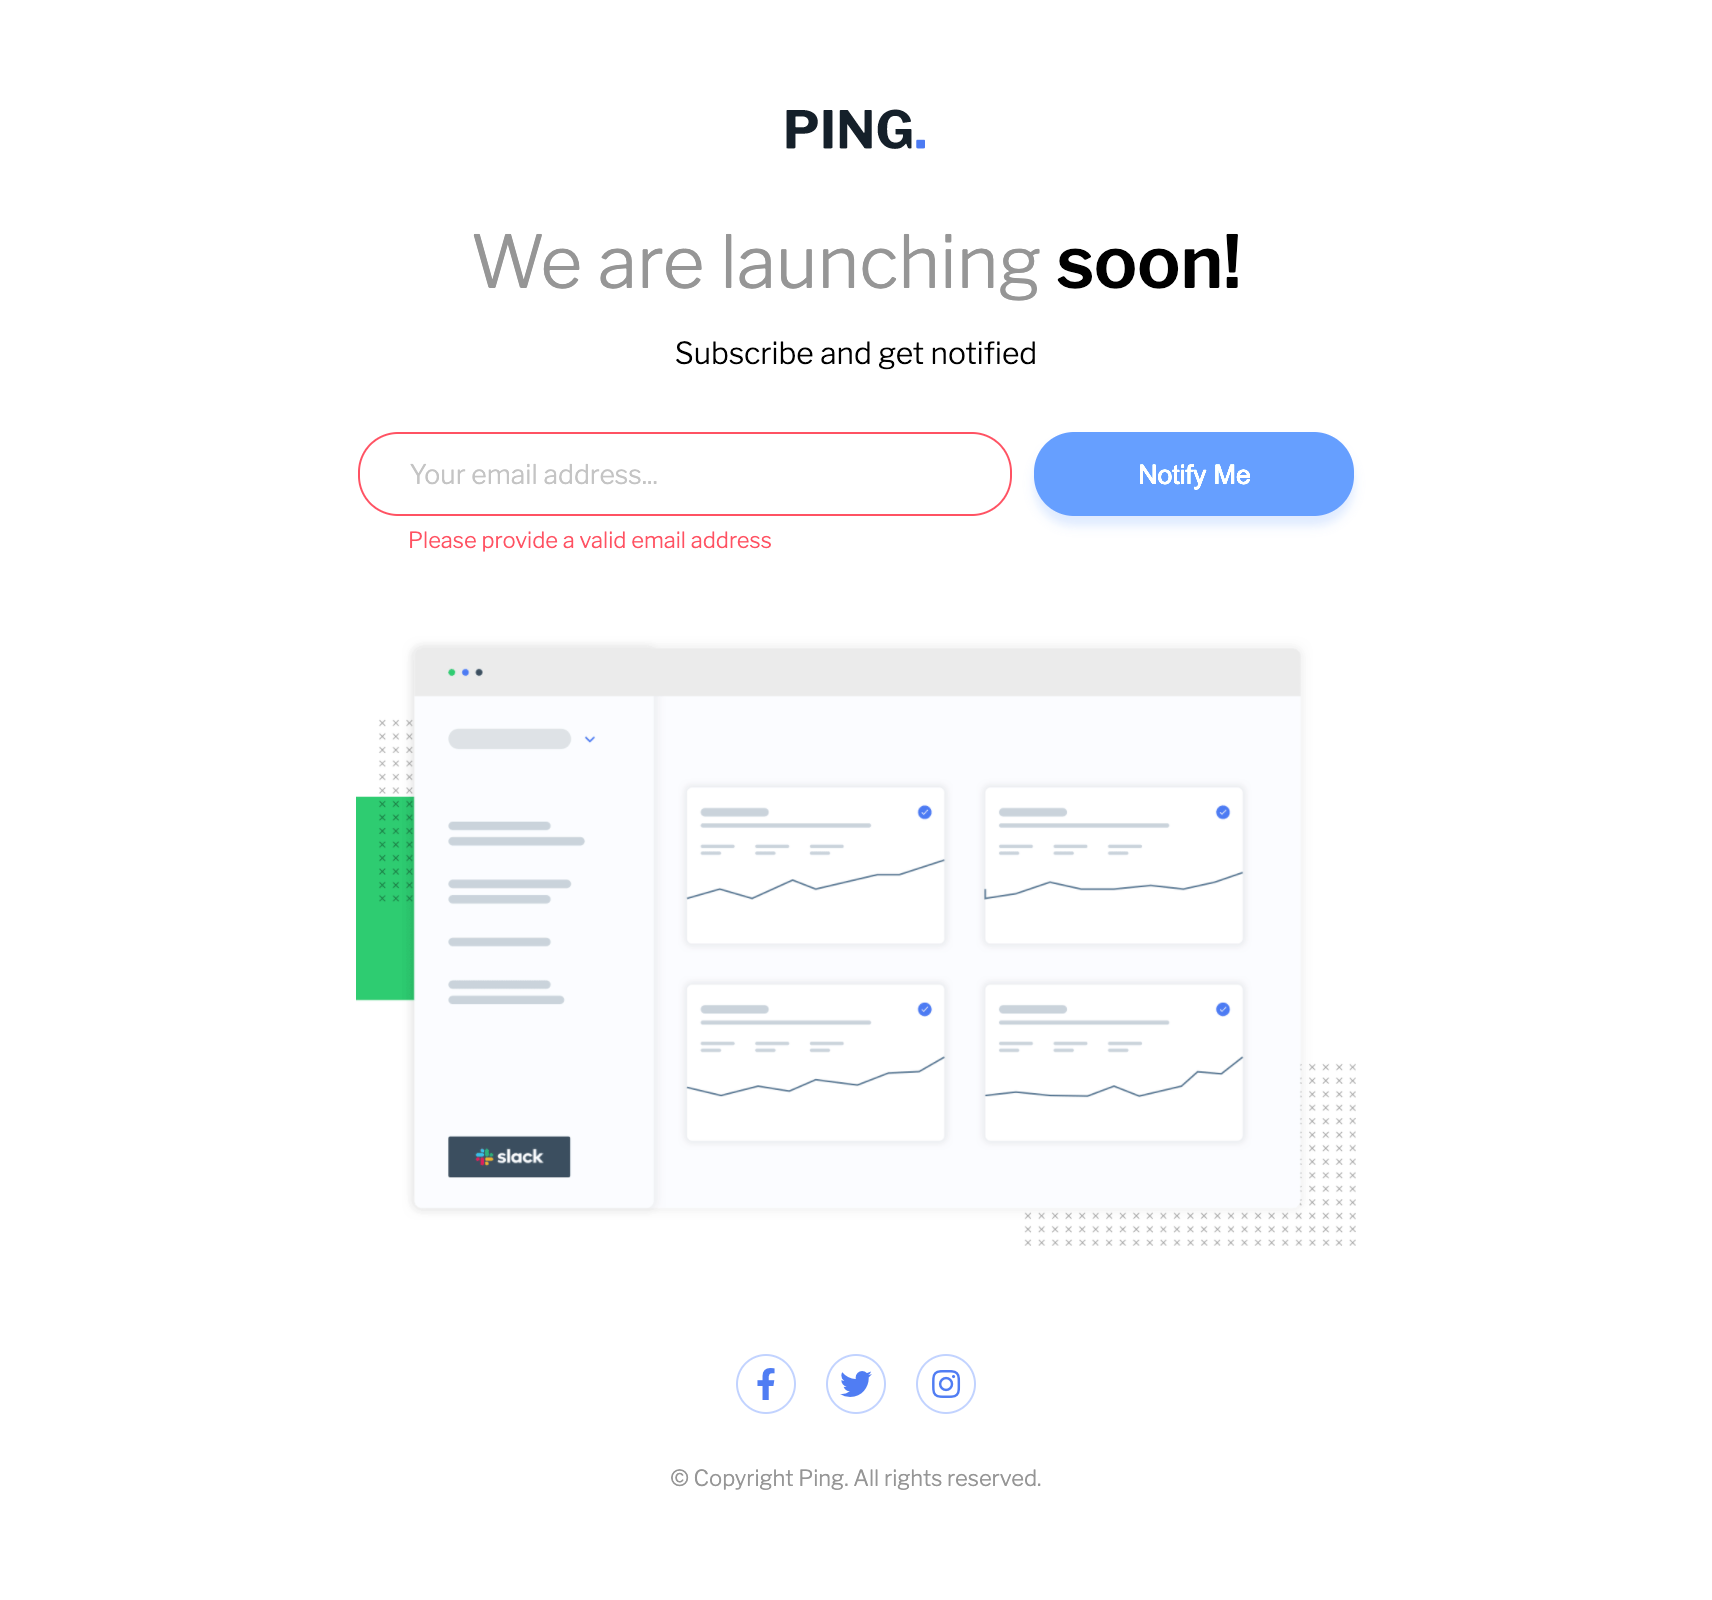
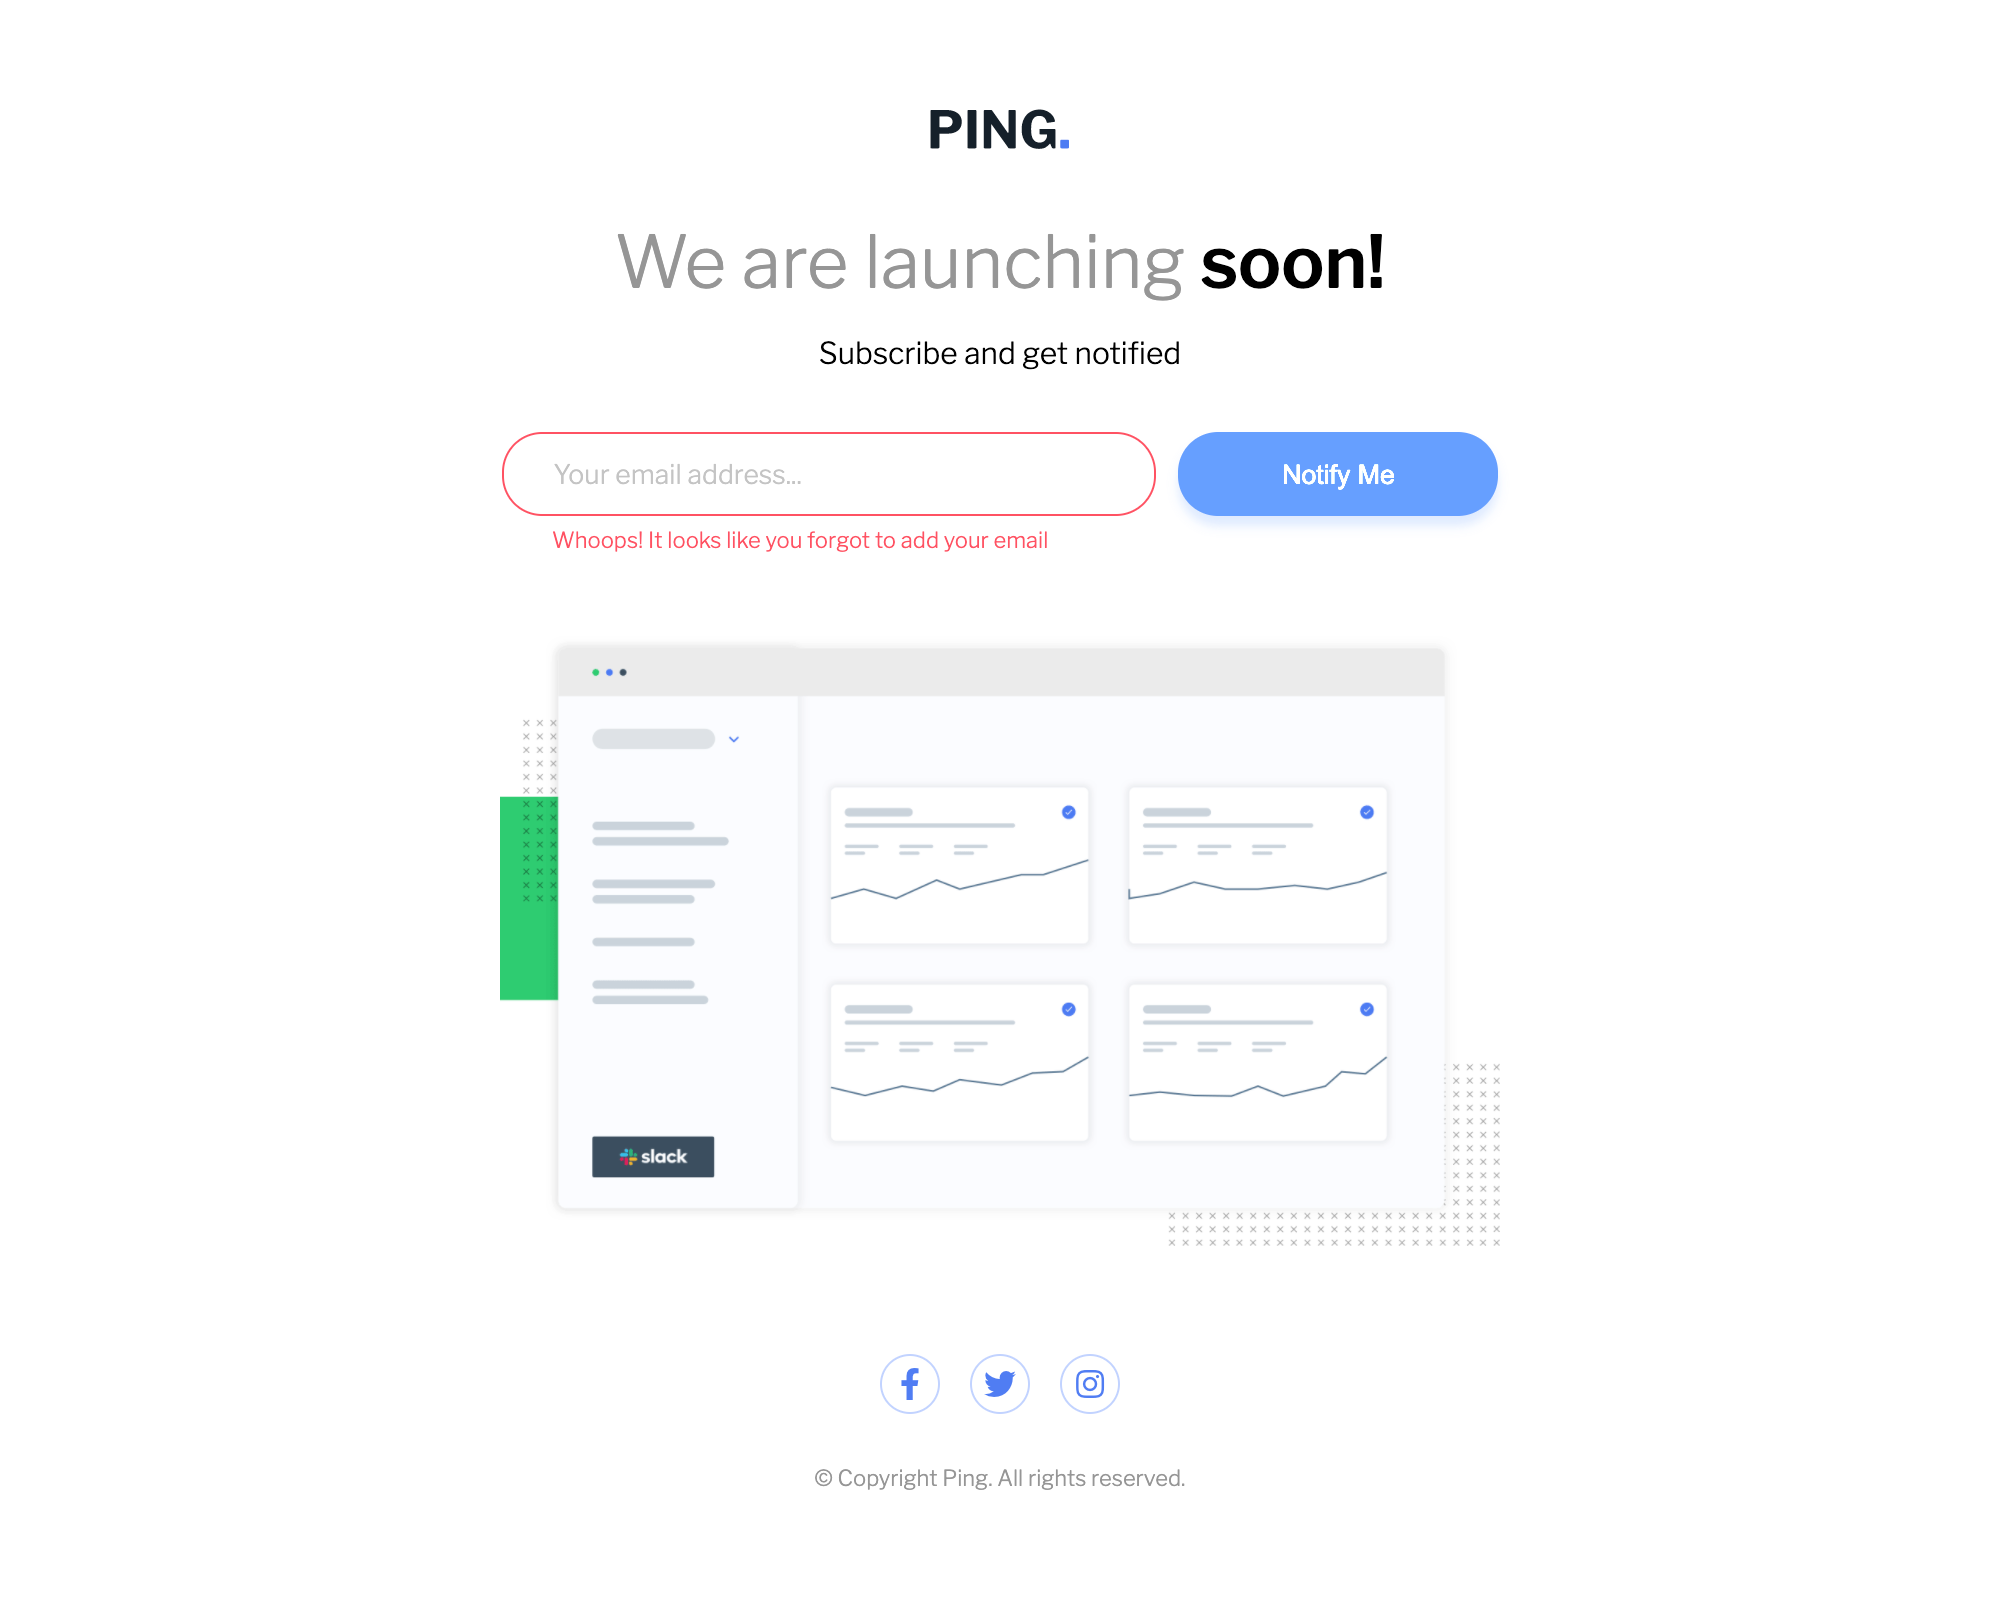
Add designs screenshots with empty input field validation

diff --git a/README.md b/README.md
@@ -28,8 +28,10 @@ Users should be able to:
 
 ![](./screenshots/desktop-design.png)
 ![](./screenshots/desktop-design-active-state.png)
+![](./screenshots/desktop-design-active-state-2.png)
 ![](./screenshots/mobile-design.png)
 ![](./screenshots/mobile-design-active-state.png)
+![](./screenshots/mobile-design-active-state-2.png)
 
 ### Links
 
@@ -42,8 +44,8 @@ Users should be able to:
 - Semantic HTML5 markup
 - CSS custom properties
 - Flexbox
-- CSS Grid
 - Mobile-first workflow
+- JavaScript
 
 The designs were created to the following widths:
 
